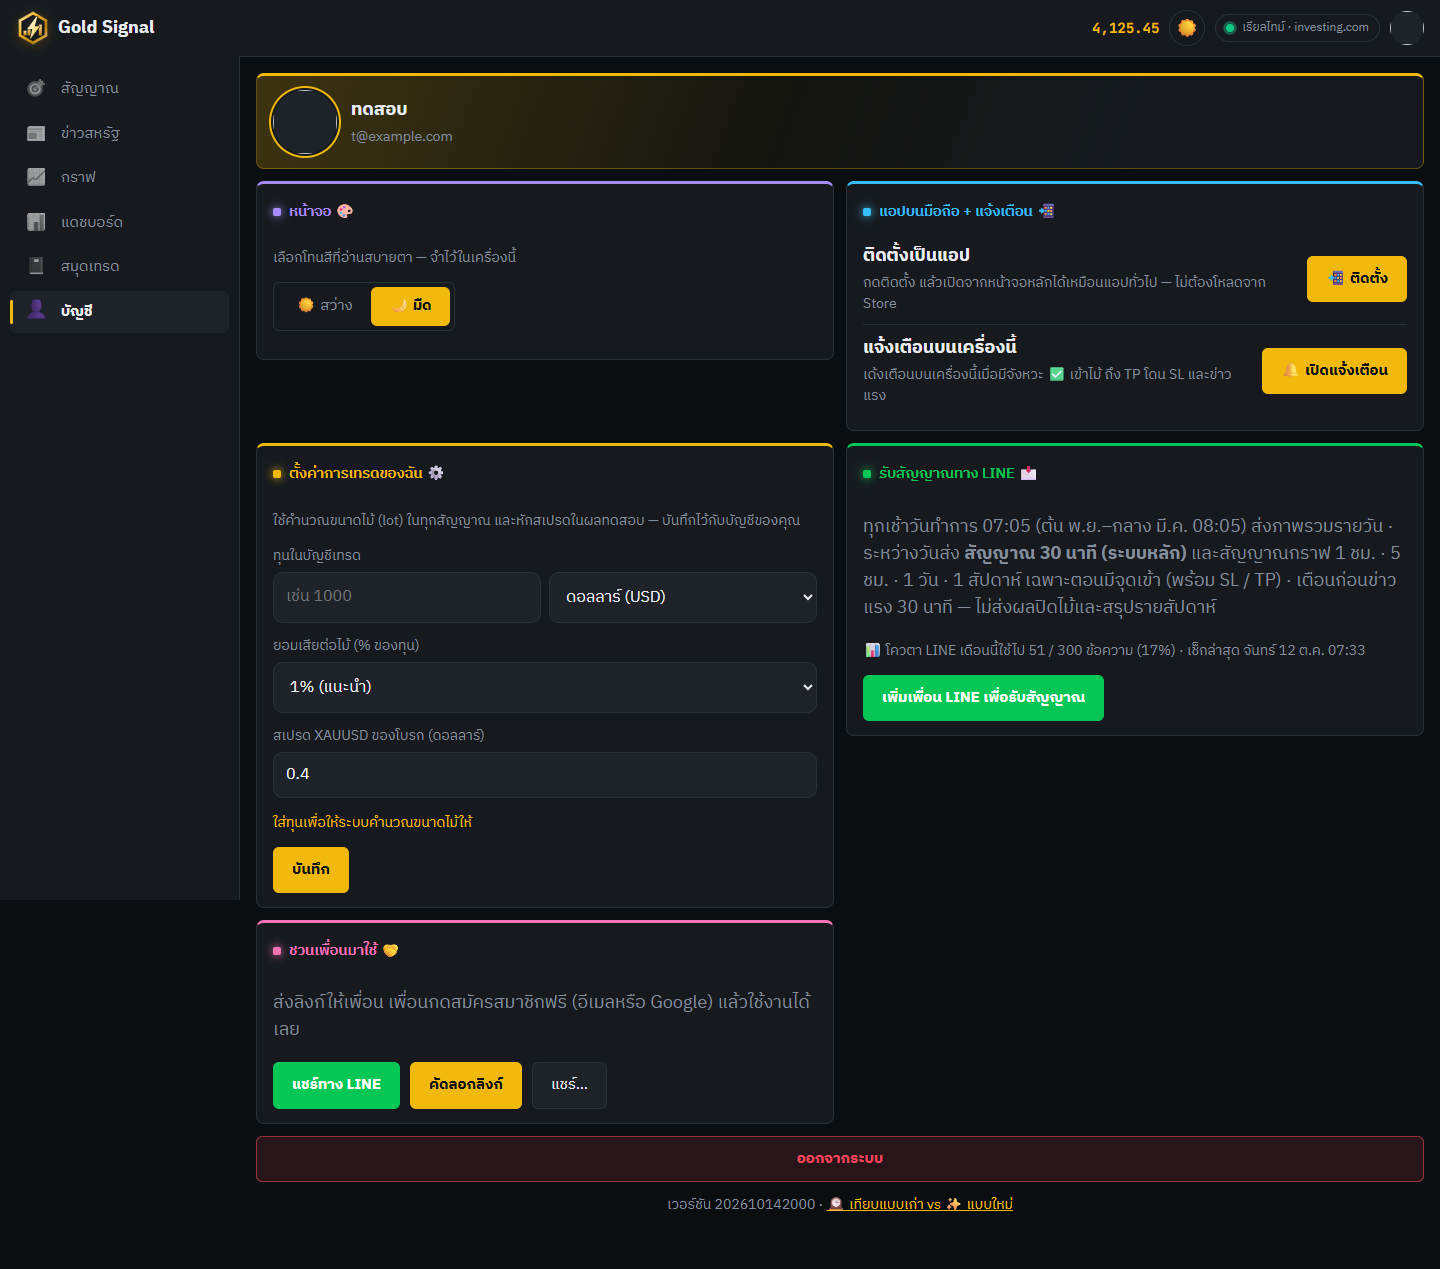
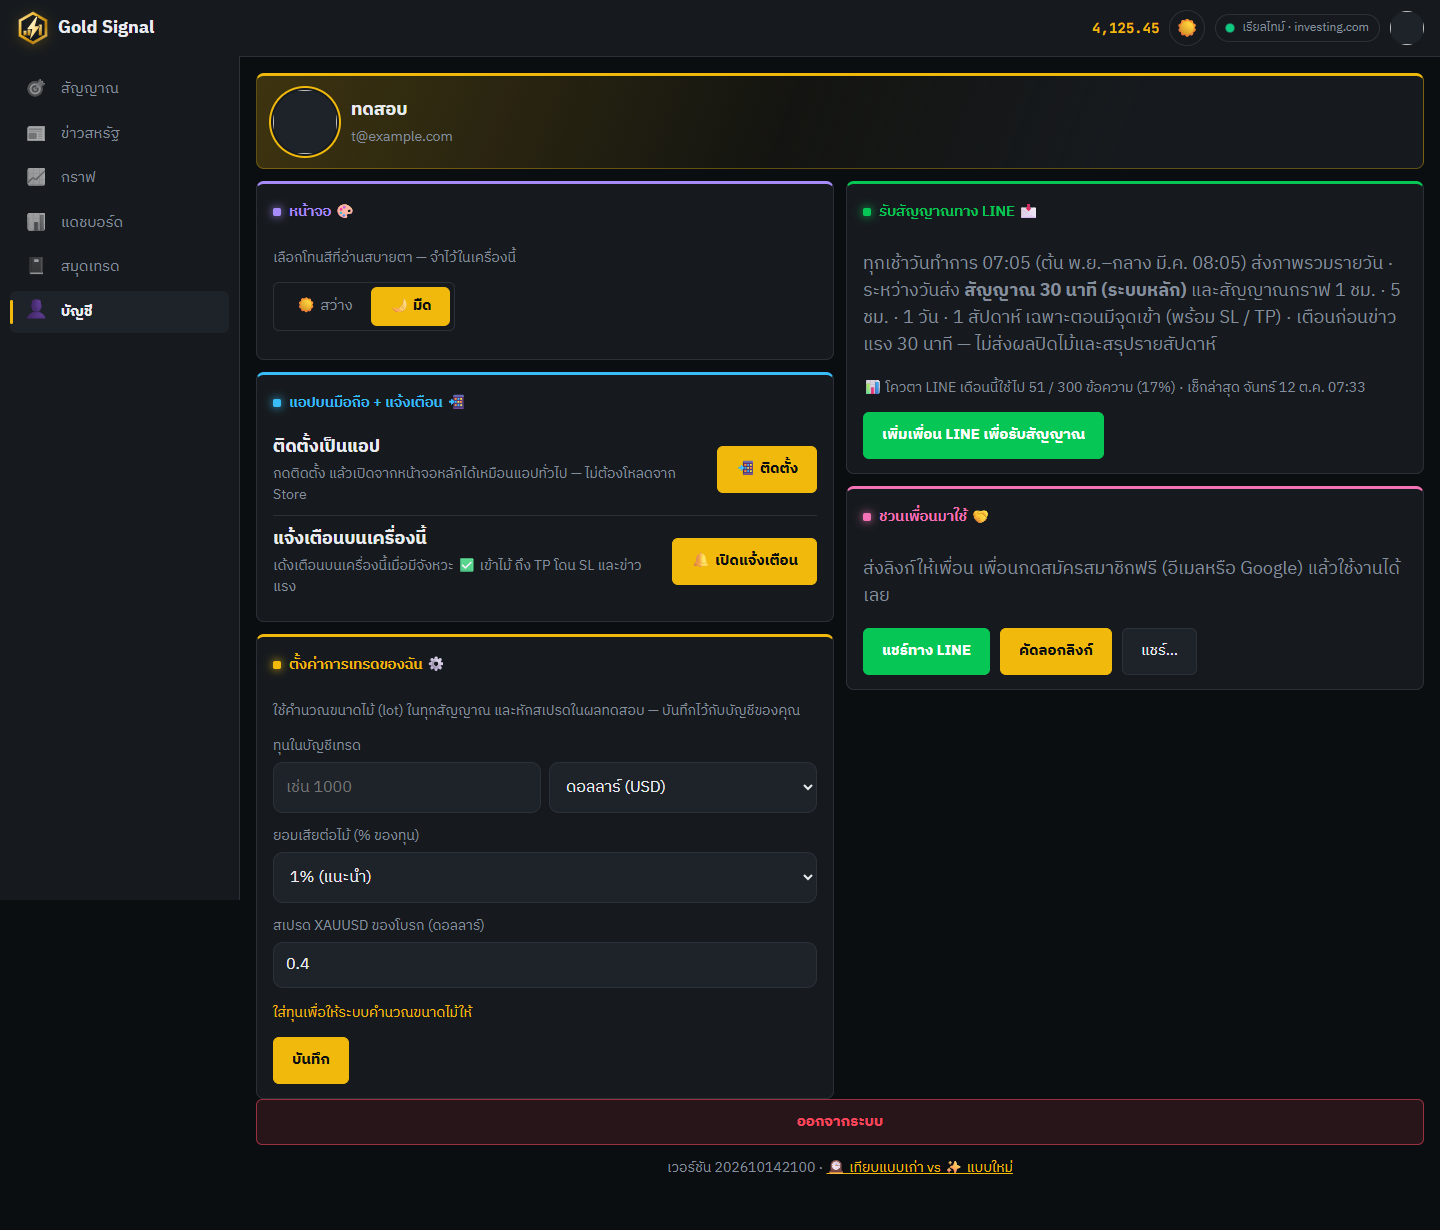
Account tab: gapless 2-column flow (CSS columns), wider max 1440px; hidden admin link stays hidden

diff --git a/terminal.css b/terminal.css
@@ -87,11 +87,14 @@ html.dark #setSave, html.dark #pwaPush, html.dark #shareCopy { background: var(-
 html.dark .seg button.on { background: var(--gold) !important; color: #0b0e11 !important; box-shadow: none !important; }
 
 /* account: sections with a coloured top edge + tinted heading chip; readable width on very wide screens */
-html.dark #tab-account { --acc: var(--gold); max-width: 1180px; margin-inline: auto; }
+html.dark #tab-account { --acc: var(--gold); max-width: 1440px; margin-inline: auto; }
+/* two columns that stack cards without gaps (user 14 Oct: "ทำไมแบบนี้" — a grid row left a hole under the short card) */
 @media (min-width: 1100px) {
-  html.dark #tab-account { display: grid; grid-template-columns: 1fr 1fr; gap: 12px; align-items: start; }
-  html.dark #tab-account > * { margin-top: 0 !important; }
-  html.dark #tab-account > .profile, html.dark #tab-account > .wide, html.dark #tab-account > p, html.dark #tab-account > .admin-link { grid-column: 1 / -1; }
+  html.dark #tab-account { column-count: 2; column-gap: 12px; }
+  html.dark #tab-account > * { break-inside: avoid; margin: 0 0 12px !important; }
+  html.dark #tab-account > section.card:not(.profile) { display: block; width: 100%; }
+  html.dark #tab-account > .profile, html.dark #tab-account > .wide, html.dark #tab-account > p, html.dark #tab-account > .admin-link { column-span: all; }
+  html.dark #tab-account > .wide:not([hidden]) { display: block; width: 100%; }
 }
 html.dark #tab-account > section.card { border-top: 3px solid var(--acc); }
 html.dark #tab-account > section.card:nth-of-type(2) { --acc: #a78bfa; }

diff --git a/index.html b/index.html
@@ -21,7 +21,7 @@
   <link rel="stylesheet" href="live.css?v=202610141600">
   <link rel="stylesheet" href="theme.css?v=202610141700" id="themeLight">
   <link rel="stylesheet" href="design.css?v=202610141800">
-  <link rel="stylesheet" href="terminal.css?v=202610142000">
+  <link rel="stylesheet" href="terminal.css?v=202610142100">
   <script>/* apply the saved theme before the first paint */ var gsT = "dark"; try { gsT = localStorage.getItem("gs-theme") === "light" ? "light" : "dark"; } catch (e) {} /* dark trading terminal = default since 14 Oct 2026 */ if (gsT === "dark") { document.getElementById("themeLight").disabled = true; document.documentElement.classList.add("dark"); document.querySelector("meta[name=theme-color]").content = "#0b0e11"; }</script>
   <script src="https://unpkg.com/lightweight-charts@4.2.0/dist/lightweight-charts.standalone.production.js"></script>
 </head>
@@ -540,7 +540,7 @@
 
         <a class="btn gold wide admin-link" id="adminLink" href="/admin.html" hidden>🛠 หลังบ้าน — สมาชิกและการเข้าใช้งาน</a>
         <button class="btn danger wide" id="signOut">ออกจากระบบ</button>
-        <p class="muted small center">เวอร์ชัน 202610142000 · <a href="compare.html">🕰 เทียบแบบเก่า vs ✨ แบบใหม่</a></p>
+        <p class="muted small center">เวอร์ชัน 202610142100 · <a href="compare.html">🕰 เทียบแบบเก่า vs ✨ แบบใหม่</a></p>
       </section>
     </main>
   </div>

diff --git a/compare.html b/compare.html
@@ -39,6 +39,15 @@
   <p class="lead">สิ่งที่เปลี่ยนในแต่ละรอบของ Gold Signal · <a href="./">กลับไปที่เว็บ</a></p>
 
   <section>
+    <h2>🧱 หน้าบัญชี: การ์ดเรียงต่อกัน ไม่มีช่องว่าง</h2>
+    <p class="date">14 ต.ค. 2569</p>
+    <div class="pair">
+      <div class="side old"><h3>🕰 แบบเก่า — ผู้ใช้: "ทำไมแบบนี้" (ช่องว่างใต้การ์ดหน้าจอ ขอบซ้ายขวาว่างเยอะ)</h3><img loading="lazy" src="compare/acc2-old-1920.png" alt="หน้าบัญชีมีช่องว่าง"></div>
+      <div class="side new"><h3>✨ แบบใหม่ — 2 คอลัมน์ต่อกันลงไป กว้างขึ้น (สูงสุด 1,440px)</h3><img loading="lazy" src="compare/acc2-new-1920.png" alt="หน้าบัญชีไม่มีช่องว่าง"></div>
+    </div>
+  </section>
+
+  <section>
     <h2>🎨 หน้าบัญชีมีสีสัน: ปุ่มสีกลับมา · แต่ละหมวดมีสีของตัวเอง · ไม่ยืดเต็มจอกว้าง</h2>
     <p class="date">14 ต.ค. 2569</p>
     <div class="pair">

diff --git a/Skill.md b/Skill.md
@@ -365,6 +365,12 @@ gh workflow run price-alerts.yml -R tanakrthum254614-max/gold-signal -f send=fal
 
 > จัดเรียงใหม่ 14 ต.ค. 2569: เนื้อหาเดิมครบทุกหัวข้อ แค่เรียงตามวันที่ (ใหม่ → เก่า) · งานใหม่ให้เพิ่มหัวข้อไว้บนสุดของส่วนนี้
 
+## 🧱 หน้าบัญชีไม่มีช่องว่าง (14 ต.ค. 2569 · เวอร์ชัน 202610142100)
+- ผู้ใช้ (รูปหน้าบัญชี 1920px): "ทำไมแบบนี้" → grid 2 คอลัมน์ทำให้แถวสูงเท่าการ์ดที่สูงกว่า → ช่องว่างใต้การ์ด "หน้าจอ" + max-width 1180 ขอบว่างเยอะ
+- terminal.css: `#tab-account` max-width 1440 · ≥1100px `column-count: 2` + `break-inside: avoid` (การ์ดต่อกันลงไป) · โปรไฟล์/ปุ่ม wide/เวอร์ชัน `column-span: all` · `.wide:not([hidden])` display block (ปุ่มเป็น inline-block ใช้ column-span ไม่ได้)
+- **กับดัก: ใส่ `display` ให้องค์ประกอบที่มี `hidden` จะทำให้มันโผล่ — ปุ่มหลังบ้าน (#adminLink hidden) เกือบโผล่ให้ทุกคนเห็น ต้องใช้ `:not([hidden])`** (เจอในเครื่อง ไม่ได้ขึ้นเว็บ) · `section.card` (display block) ต้องยกเว้น `.profile` (flex)
+- ทดสอบ acc.cjs 1440/1920/2560/390: ไม่ล้น, adminLink display none, signOut เต็มแถว, ไม่มี error · ภาพ compare/acc2-*.png
+
 ## 🎨 หน้าบัญชีมีสีสัน + ปุ่มสีกลับมาทั้งเว็บ (14 ต.ค. 2569 · เวอร์ชัน 202610142000)
 - ผู้ใช้ (รูปหน้าบัญชีจอกว้างมาก): "ดูธรรมดาไม่มีสีสันเลย" → สาเหตุเดียวกับกรอบสถานะ: `html.dark .btn` ใน terminal.css ทับ `.btn.gold/.line/.danger` → ปุ่มเทาหมด + ฟอร์มยืดเต็มจอที่ ≥1700px (`.content` max-width none)
 - terminal.css ท้ายไฟล์: `.btn.gold` เหลือง #f0b90b ตัวดำ (hover #fcd535) · `.btn.line` #06c755 · `.btn.danger` พื้นแดงจาง ตัวแดง · #setSave/#pwaPush/#shareCopy เป็นปุ่มทอง · `.seg button.on` พื้นทอง
